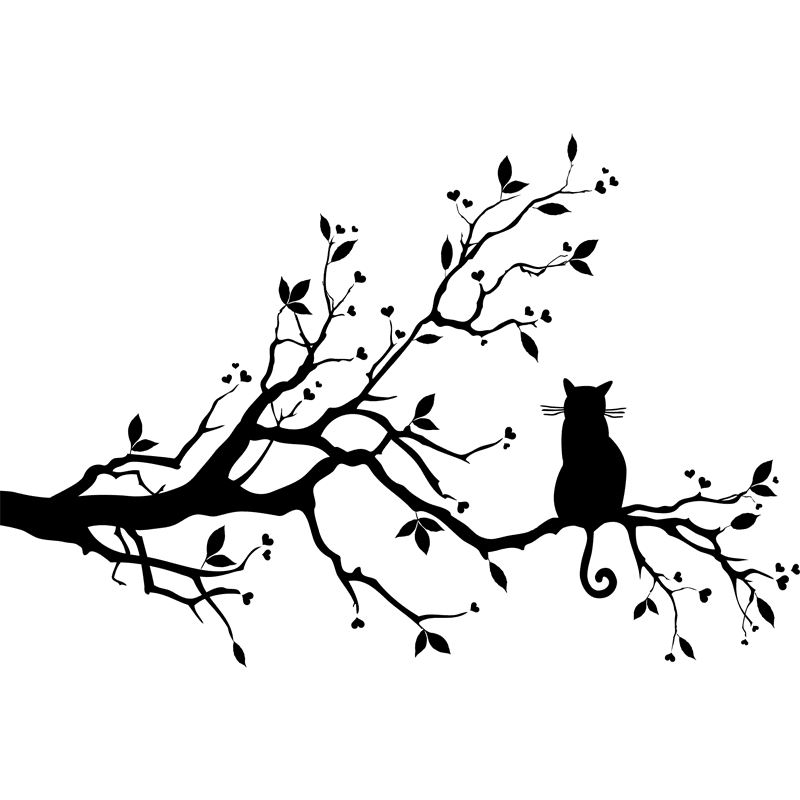
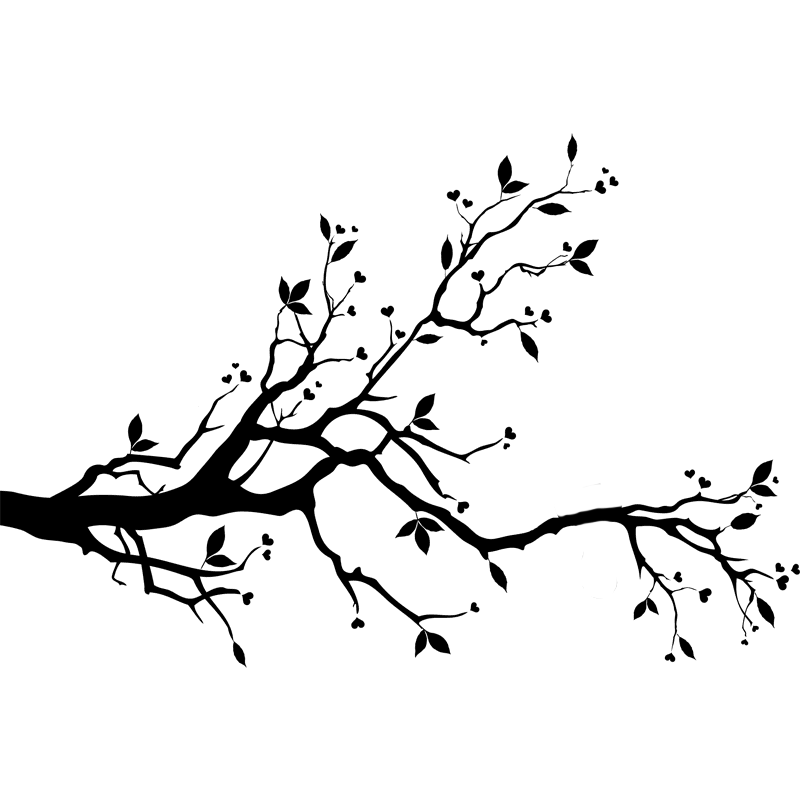
redesigned menu

Changed region(s): [[0.6875, 0.4688, 0.7812, 0.75]]

diff --git a/src/app/pages/main-page/components/main-page/main-page.component.scss b/src/app/pages/main-page/components/main-page/main-page.component.scss
@@ -72,9 +72,6 @@ $mainColor: #f6f6f6;
 $hoverColor: #03ae48;
 $btnColor: #10e866;
 //====================================================================================================
-
-//-webkit-overflow-scrolling: touch;
-//animation-play-state: paused !important;
 ._ibg {
   position: relative;
   img {
@@ -104,12 +101,11 @@ $btnColor: #10e866;
   }
   &._scroll {
     .header__wrapper {
+      transition: all 0.8s ease;
+      transition-delay: 0.1s;
+      
+      transform: translate(0,calc(-100% + 2px));
       background: #161616;
-      transition: all 0.1s ease 0s;
-      @supports ((-webkit-backdrop-filter: blur(31px)) or (backdrop-filter: blur(31px))) {
-        background: #161616ce;
-        backdrop-filter: blur(31px);
-      }
     }
   }
   position: absolute;
@@ -131,6 +127,7 @@ $btnColor: #10e866;
   // .header__wrapper
 
   &__wrapper {
+    transition: all 0.8s ease;
     position: fixed;
     width: 100%;
     left: 0;
@@ -154,20 +151,22 @@ $btnColor: #10e866;
     min-height: 110px;
     transition: min-height 0.3s ease 0s;
     @media (max-width: $md3 + px) {
-      min-height: 80px;
       transition: all 0.3s ease 0s;
 
     }
   }
   &._scroll {
     .header__body {
-      min-height: 90px;
       transition: all 0.3s ease 0s;
     }
   }
   // .header__logo
+  position: relative;
+  right: 0;
 
   &__logo {
+    position: absolute;
+    @include adaptiv-value("left", 100, 30, 1);
     @media (max-width: 860px) {
       flex: 1 1 72%;
       justify-content: flex-end;
@@ -203,7 +202,8 @@ $btnColor: #10e866;
   // .header__menu
 
   &__menu {
-    flex: 1 1 auto;
+    margin-left: auto;
+    flex: 0 1 80%;
     @media (min-width: 860px) {
       li {
         z-index: 100;
@@ -555,8 +555,13 @@ main{
   }
 }
 .rigth-bar {
+  @media (max-width:$md2+px){
+    width: 90%;
+    margin-right: 0;
+    margin: 0 auto;
+  }
+  margin-right: 100px;
   margin-left: auto;
-  @include adaptiv-value("margin-right", 100, 20, 1);
   width: 60%;
   min-height: 60%;
   background: #282828;-webkit-box-shadow: -2px 57px 33px -44px rgba(17, 17, 17, 0.33);
@@ -581,6 +586,8 @@ main{
   // .fullscrean-page__img
 
   &__img {
+    transition: all 0.8s ease-in;
+    transition-delay: 0.2s;
     img{
       pointer-events: none;
       animation: showLeft 1s;
@@ -595,10 +602,16 @@ main{
     z-index: 5;
 		padding-top: 34%;
 		width: 40%;
+    transform-origin: center bottom;
 		filter: grayscale(1) brightness(1000%);
     position: absolute;
     bottom: 0;
     left: 0;
+    
+    &._scroll{
+      transform-origin: center bottom;
+      transform: rotate(52deg);
+    }
   }
 }
 
@@ -632,6 +645,7 @@ main{
 
   // .rigth-bar__button
   &__button {
+    margin-top: 30px;
     padding: 12px 40px;
     display: flex;justify-content:center;align-items: center;
     color: #000;
@@ -669,3 +683,48 @@ main{
     }
     
     }
+
+.logo{
+  background: #161616;
+  position: fixed;
+  z-index: 100;
+  top: 0px;
+  width: 60px;
+  left: 100px;
+  padding-top: 10px;
+  display: flex;justify-content:center;align-items: center;
+  height: 90px;
+  
+  @media (max-width: 860px) {
+    right: 10px;
+    left: auto;
+  }
+  .img-wrapper{
+    width: 79%;
+    padding-top: 87%;
+  }
+  &::before{
+    content:'';
+    width: 0;
+    position: absolute;
+    bottom: 0;
+    left: 0;
+    transform: scale(1, -1) translate(0,-100%);
+    height: 0;
+    border-left: 0 solid transparent;
+    border-right: 30px solid transparent;
+    border-bottom: 17px solid #161616;
+  }
+  &::after{
+    content:'';
+    width: 0;
+    position: absolute;
+    bottom: 0;
+    right: 0;
+    transform: scale(1, -1) translate(0,-100%);
+    height: 0;
+    border-left: 30px solid transparent;
+    border-right: 0 solid transparent;
+    border-bottom: 17px solid #161616;
+  }
+}

diff --git a/src/app/pages/main-page/components/main-page/main-page.component.ts b/src/app/pages/main-page/components/main-page/main-page.component.ts
@@ -37,8 +37,19 @@ export class MainPageComponent implements OnInit {
         iconMenu.classList.toggle('_active');
         menuBody.classList.toggle('_active');
     }
-}
+  }
+  showMenu(): void{
+  }
   ngAfterContentInit(): void{
+    const triger = document.getElementById("logo");
+    const menu = document.getElementById("header");
+    if(triger != null && menu != null){
+      triger.addEventListener('click', () => {
+        if(window.scrollY > 0){
+        menu.classList.toggle('_scroll')
+      }
+      })
+    }
 
     function cursorNone(){
       document.querySelectorAll('body *:not(script)').forEach(element => element.classList.add("cursorNone"));
@@ -56,7 +67,6 @@ export class MainPageComponent implements OnInit {
       let posX = 0, posY = 0, mouseX = 0, mouseY = 0;
       let followerSpead =0,cursorMargin=0,clickDuration=1000;
 
-      console.log(cursor)
       if(cursor != null && follower != null){
         let followerValue = follower.getAttribute('cursor-animation-property')
         if(followerValue){
@@ -64,7 +74,6 @@ export class MainPageComponent implements OnInit {
           followerSpead = parseInt(_followerValue[0])
           cursorMargin = parseInt(_followerValue[1])
           clickDuration = parseInt(_followerValue[2])
-          console.log(_followerValue[0])
         }
         //-------------------
         setInterval(() => {
@@ -108,11 +117,15 @@ export class MainPageComponent implements OnInit {
     function headerbg(){
       //цвет хедера
       const header =  document.getElementById('header');
+      const tree =  document.getElementById('tree');
       if(header != null){
         const callback = function(entries: any,observer: any) {
           if(entries[0].isIntersecting){
             header.classList.remove('_scroll');
           }else{
+            if(tree!=null){
+              tree.classList.add('_scroll');
+            }
             header.classList.add('_scroll');
           }
         }

diff --git a/src/app/pages/main-page/components/main-page/main-page.component.html b/src/app/pages/main-page/components/main-page/main-page.component.html
@@ -20,9 +20,6 @@
           <span></span>
           <span></span>
         </div>
-        <div class="header__logo">
-          <a href="" class="header__logo-link _ibg"><img src="assets/header_bg_2.png" alt="logo" /></a>
-        </div>
         <div class="header__menu menu">
           <nav class="menu__body">
             <ul class="menu__list">
@@ -39,9 +36,14 @@
   </div>
 </header>
 <main>
+  <div class="logo cursorLink" id="logo">
+    <div class="img-wrapper _ibg">
+      <img src="assets/header_bg_2.png" alt="">
+    </div>
+  </div>
   <section class="section__fullscreen fullscreen">
     <div class="fullscreen__container _container">
-      <div class="fullscrean-page__img _ibg">
+      <div class="fullscrean-page__img _ibg" id="tree">
         <img src="assets/1.png" alt="" />
       </div>
       <div class="fullscrean-page__outImg _ibg">
